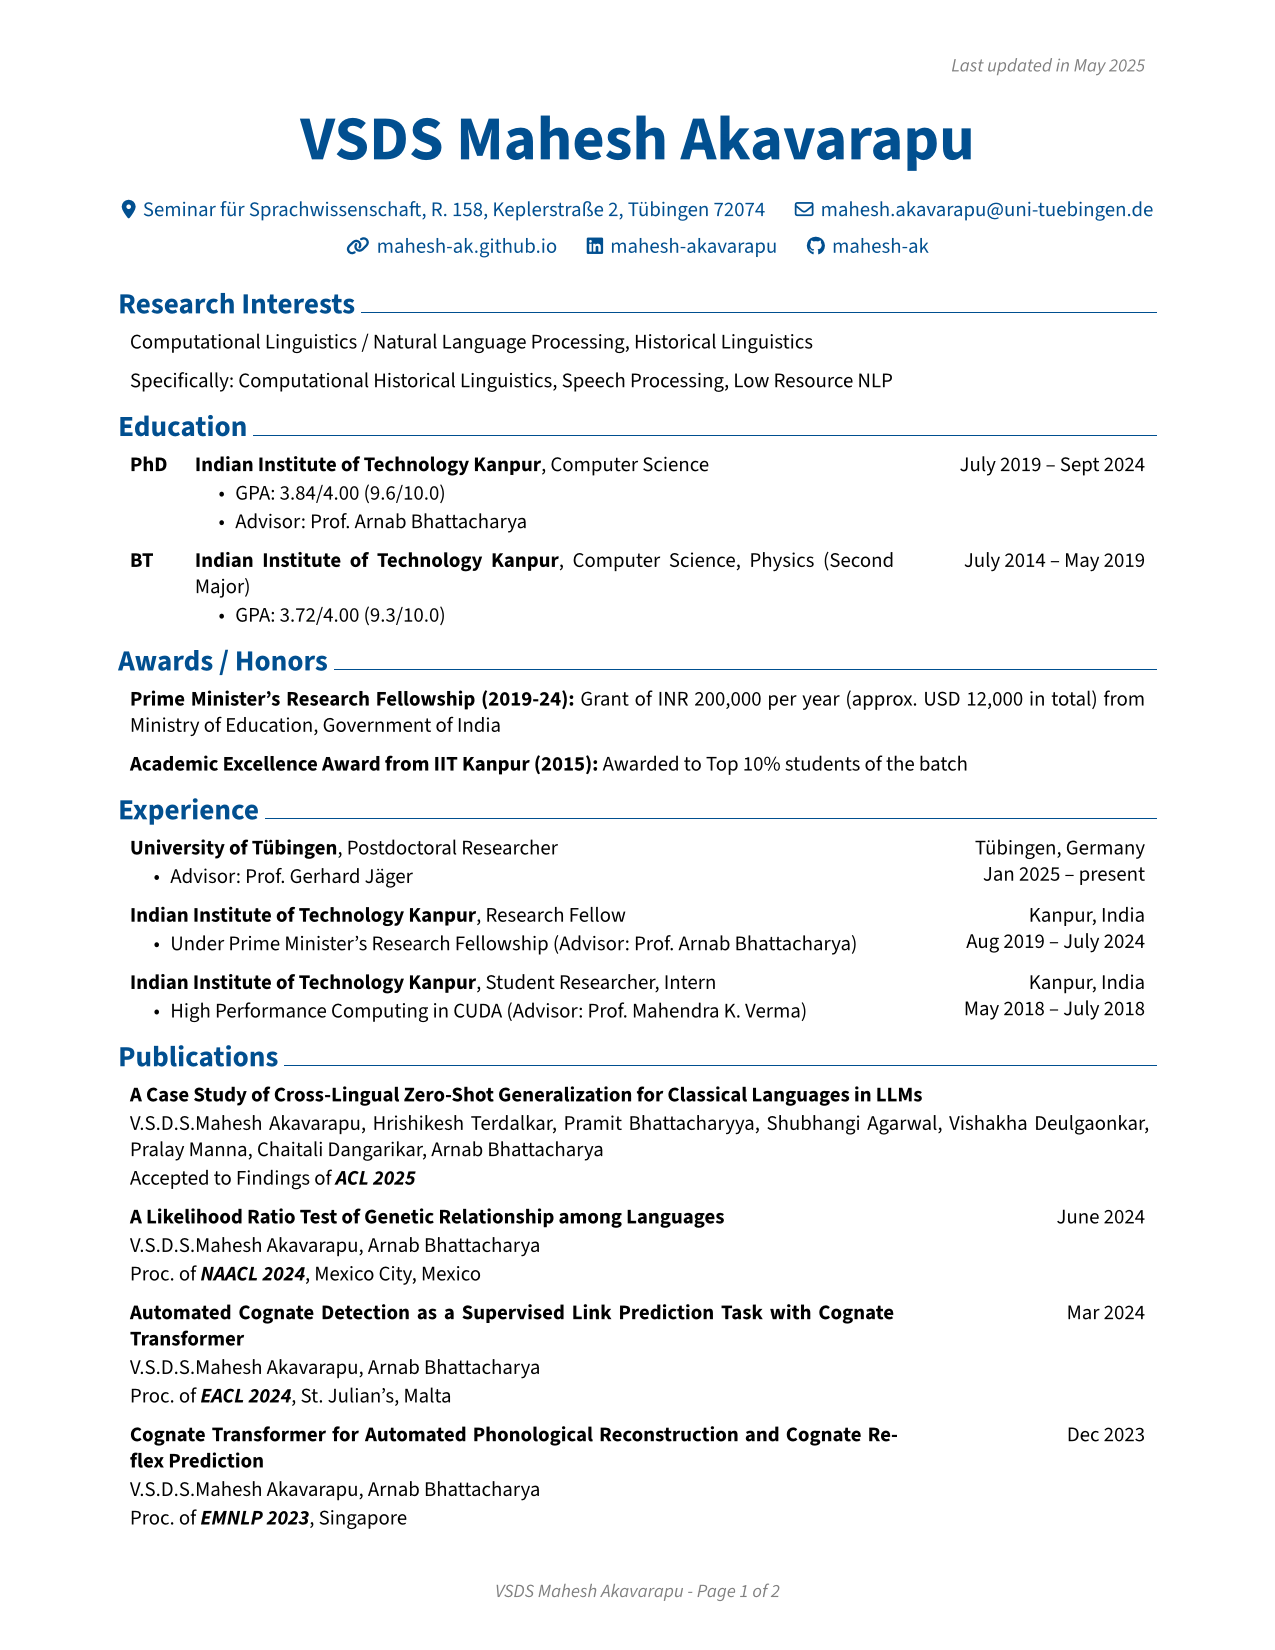
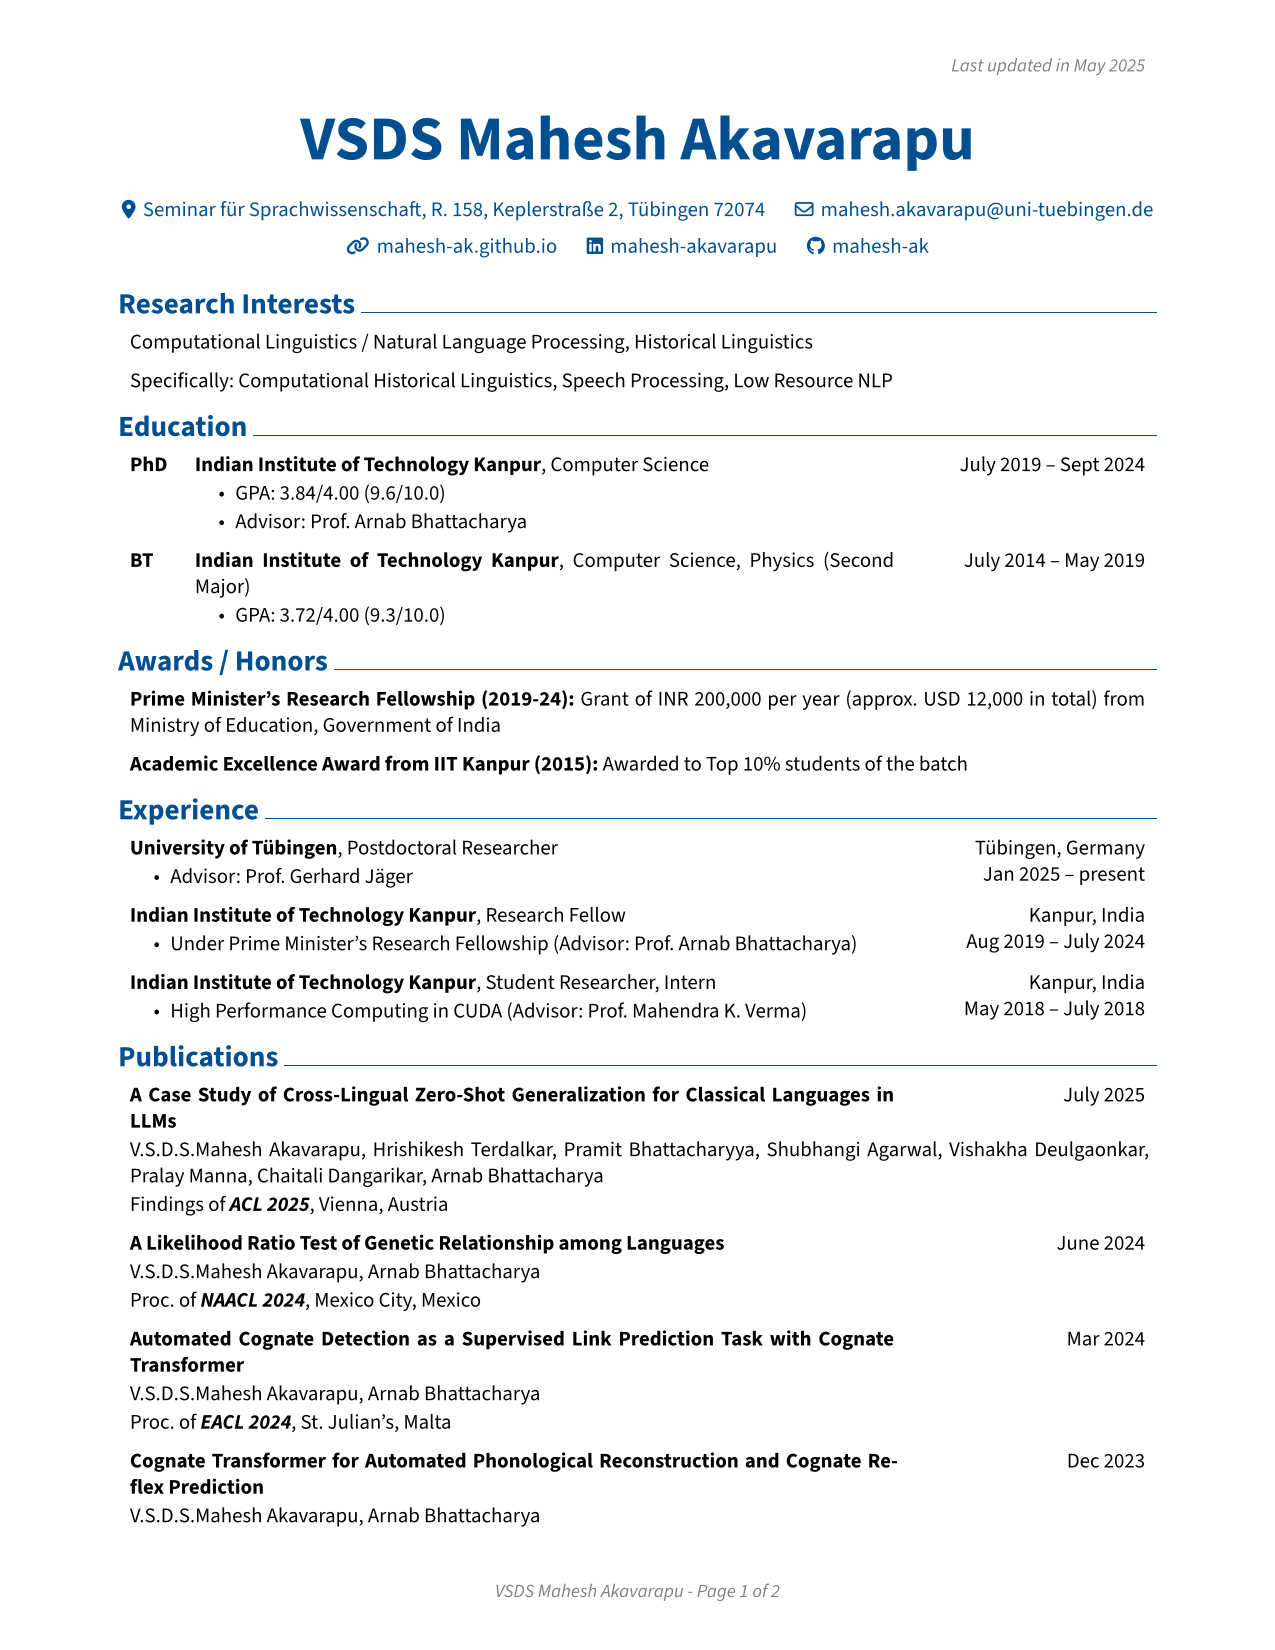
Update: ACL 2025

Changed region(s): [[0.0918, 0.6491, 0.8871, 0.9273], [0.8259, 0.8655, 0.8871, 0.8964]]

diff --git a/assets/pdf/CV/rendercv_output/VSDS_Mahesh_Akavarapu_CV.html b/assets/pdf/CV/rendercv_output/VSDS_Mahesh_Akavarapu_CV.html
@@ -89,8 +89,8 @@
         <h1>Publications</h1>
         <h2>A Case Study of Cross-Lingual Zero-Shot Generalization for Classical Languages in LLMs</h2>
         <ul>
-        <li>V.S.D.S.Mahesh Akavarapu, Hrishikesh Terdalkar, Pramit Bhattacharyya, Shubhangi Agarwal, Vishakha Deulgaonkar, Pralay Manna, Chaitali Dangarikar, Arnab Bhattacharya</li>
-        <li>Accepted to Findings of <strong><em>ACL 2025</em></strong> </li>
+        <li>July 2025 - V.S.D.S.Mahesh Akavarapu, Hrishikesh Terdalkar, Pramit Bhattacharyya, Shubhangi Agarwal, Vishakha Deulgaonkar, Pralay Manna, Chaitali Dangarikar, Arnab Bhattacharya</li>
+        <li>Findings of <strong><em>ACL 2025</em></strong>, Vienna, Austria </li>
         </ul>
         <h2>A Likelihood Ratio Test of Genetic Relationship among Languages</h2>
         <ul>

diff --git a/assets/pdf/CV/rendercv_output/VSDS_Mahesh_Akavarapu_CV.md b/assets/pdf/CV/rendercv_output/VSDS_Mahesh_Akavarapu_CV.md
@@ -53,8 +53,8 @@ Specifically: Computational Historical Linguistics, Speech Processing, Low Resou
 # Publications
 
 ## A Case Study of Cross-Lingual Zero-Shot Generalization for Classical Languages in LLMs 
-- V.S.D.S.Mahesh Akavarapu, Hrishikesh Terdalkar, Pramit Bhattacharyya, Shubhangi Agarwal, Vishakha Deulgaonkar, Pralay Manna, Chaitali Dangarikar, Arnab Bhattacharya
-- Accepted to Findings of ***ACL 2025*** 
+- July 2025 - V.S.D.S.Mahesh Akavarapu, Hrishikesh Terdalkar, Pramit Bhattacharyya, Shubhangi Agarwal, Vishakha Deulgaonkar, Pralay Manna, Chaitali Dangarikar, Arnab Bhattacharya
+- Findings of ***ACL 2025***, Vienna, Austria 
 ## A Likelihood Ratio Test of Genetic Relationship among Languages 
 - June 2024 - V.S.D.S.Mahesh Akavarapu, Arnab Bhattacharya
 - Proc. of ***NAACL 2024***, Mexico City, Mexico 
